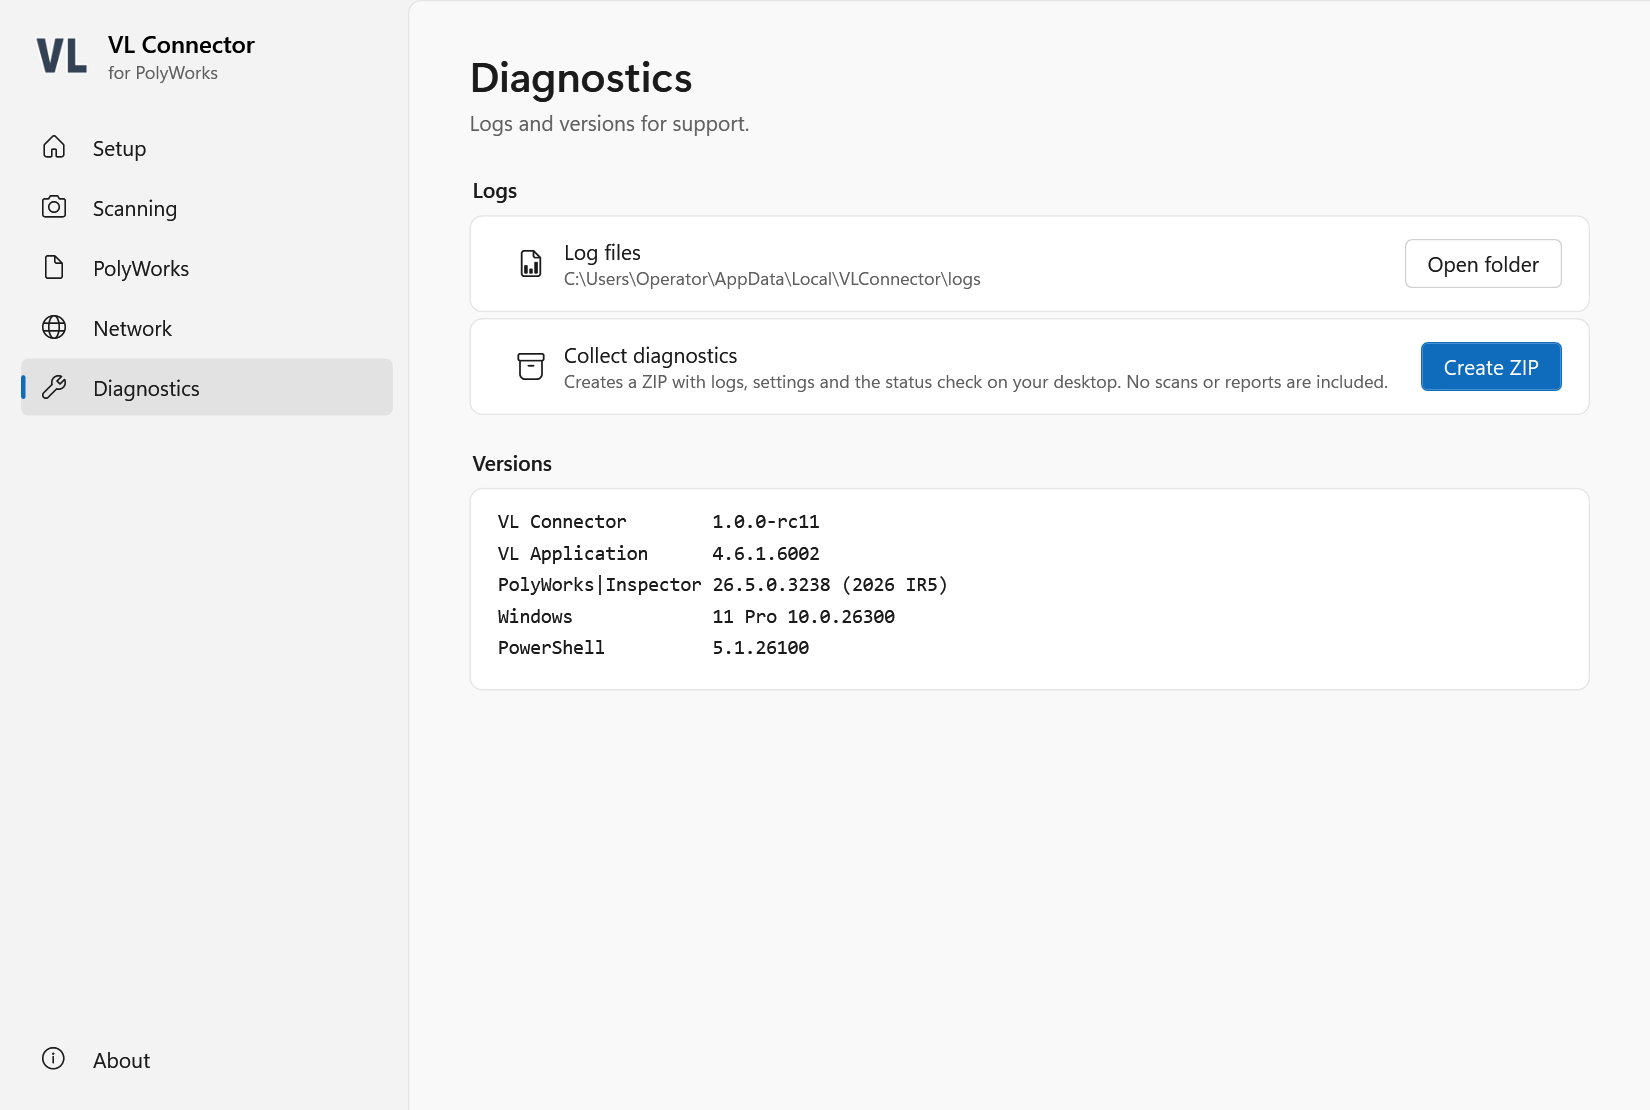
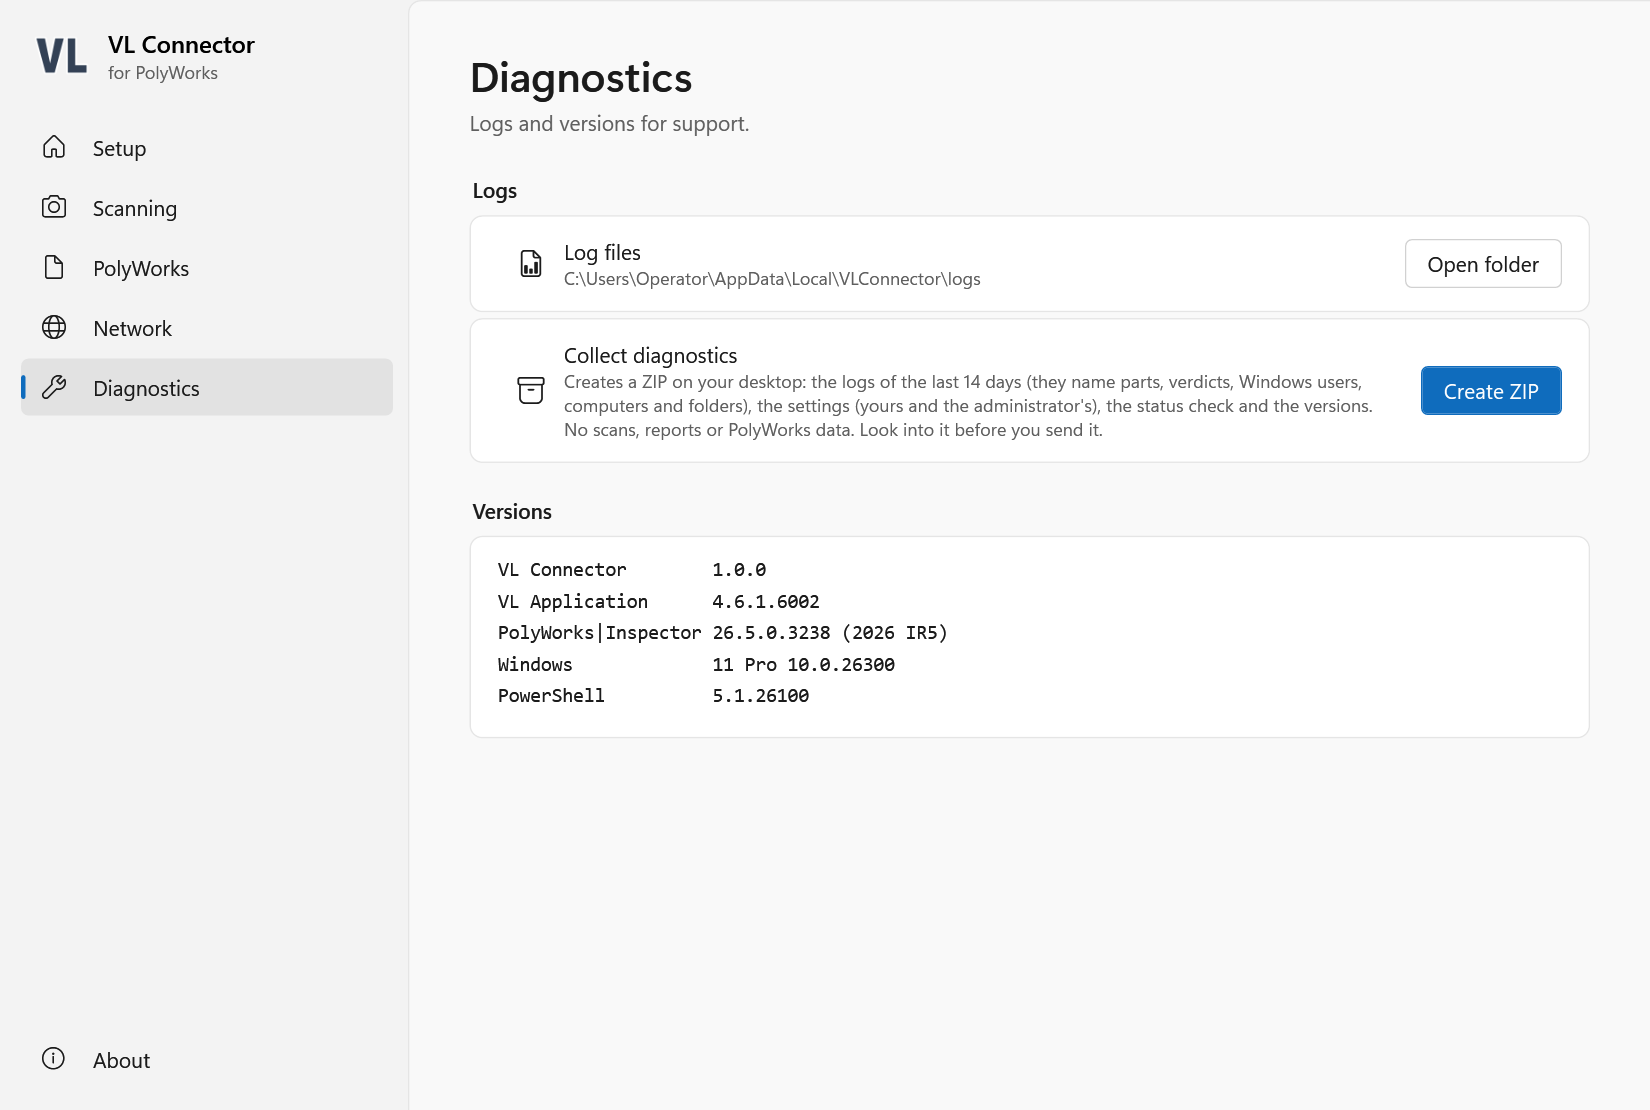
Release 1.0.0
First stable release: the release candidates hardened after the enterprise IT safety audit of 1.0.0-rc10 and
tested live at the scanner on 2026-11-02 (installation, Measure with the stage policy off and on, a stored NOK
scan, the network scenario on one PC, removal and new installation).
- VERSION 1.0.0; CHANGELOG: section 1.0.0 (2026-11-02); the old "1.0.0 - 2026-10-27" heading named what were
  release candidates rc1 to rc10 and says so now; a stray "`n" from an earlier edit removed.
- Screenshots renewed (Network page wording, warning window headline, version on About); the screenshot tool sets
  the headline the warning window now sets when it is shown.

diff --git a/docs/User-Guide.html b/docs/User-Guide.html
@@ -46,7 +46,7 @@ footer { max-width: 920px; margin: 0 auto 28px; color: #666; font-size: 12px; te
 <h2 id="2-installation">2. Installation</h2>
 <p>You need Windows 10 or 11, the VL Application 4.6 with its <strong>English</strong> user interface (scanner PC) and PolyWorks Metrology Suite 2026 (evaluating PC). The installation needs <strong>administrator rights</strong> once (Windows asks); using VL Connector does not. Nothing is copied into the program folders of VL or PolyWorks (VL Connector is not a PolyWorks plug-in).</p>
 <ol>
-<li>Check that the SHA-256 of the downloaded ZIP matches <code>SHA256SUMS.txt</code>: <code>Get-FileHash .\VLConnector-1.0.0-rc11.zip</code> in PowerShell.</li>
+<li>Check that the SHA-256 of the downloaded ZIP matches <code>SHA256SUMS.txt</code>: <code>Get-FileHash .\VLConnector-1.0.0.zip</code> in PowerShell.</li>
 <li>Extract the ZIP (right click &gt; Extract All) and double-click <strong>Install.cmd</strong>.</li>
 <li>The installer checks every file against its manifest and shows the <strong>package fingerprint</strong>. Compare it with the fingerprint published with the package, then confirm. Windows asks for administrator rights.</li>
 <li>It installs to <code>C:\Program Files\VLConnector</code>, which only administrators can change, with the PolyWorks button files and the Start menu entries <strong>VL Connector</strong> (the settings window) and <strong>Uninstall VL Connector</strong> for all users of the PC. IT can install it silently and set the machine settings at the same time (see the Notes for IT).</li>

diff --git a/CHANGELOG.md b/CHANGELOG.md
@@ -1,8 +1,10 @@
 # Changelog
 
-## 1.0.0-rc11 - 2026-10-30
+## 1.0.0 - 2026-11-02
 
-Hardening after an enterprise IT safety audit of 1.0.0-rc10 (84 findings).
+First stable release: the release candidates (below) hardened after an enterprise IT safety audit of 1.0.0-rc10
+(84 findings) and tested live at the scanner (installation, Measure with the stage policy off and on, a stored NOK
+scan, the network scenario on one PC, removal and new installation).
 
 **Note for users of 1.0.0-rc10:** the installation moves to `C:\Program Files\VLConnector` and needs
 administrator rights once. *Confirm stage movement automatically* is no longer a setting of a user or a template:
@@ -47,13 +49,14 @@ working through forwarders.
 - **Event log:** only the installation the event source was registered for writes to it; a copy elsewhere (such as a
   test copy on a PC where VL Connector is installed) cannot leave entries that look like changes of the PC. Events of the
   agent's automatic answers name the program chosen in VL.
-- **Package folder:** only *Install.cmd* is there to open; the scripts and *Uninstall.cmd* are in `setup\` (Start menu >`n  Uninstall VL Connector). The uninstaller removes only a folder the installer made, never an unpacked package.
+- **Package folder:** only *Install.cmd* is there to open; the scripts and *Uninstall.cmd* are in `setup\` (Start menu >
+  Uninstall VL Connector). The uninstaller removes only a folder the installer made, never an unpacked package.
 - Documentation: Notes for IT rewritten (trust model, policy, safety, what security software sees, rights of
   the shared folder), Protocol, User guide, Acceptance checklist with safety checks and sign-off.
 
-## 1.0.0 - 2026-10-27
+## 1.0.0-rc1 to 1.0.0-rc10 - 2026-10-27 to 2026-10-29
 
-First release for a closed group of users.
+Release candidates for a closed group of users.
 
 - **Scenario A** (PolyWorks on the scanner PC): Measure button in PolyWorks - AI Replay in VL, automatic STL
   export, evaluation against the part template (pre-alignment, best-fit, all controls, color map), OK/NOK

diff --git a/docs/User-Guide.md b/docs/User-Guide.md
@@ -38,7 +38,7 @@ asks); using VL Connector does not. Nothing is copied into the program folders o
 is not a PolyWorks plug-in).
 
 1. Check that the SHA-256 of the downloaded ZIP matches `SHA256SUMS.txt`:
-   `Get-FileHash .\VLConnector-1.0.0-rc11.zip` in PowerShell.
+   `Get-FileHash .\VLConnector-1.0.0.zip` in PowerShell.
 2. Extract the ZIP (right click > Extract All) and double-click **Install.cmd**.
 3. The installer checks every file against its manifest and shows the **package fingerprint**. Compare it with
    the fingerprint published with the package, then confirm. Windows asks for administrator rights.
